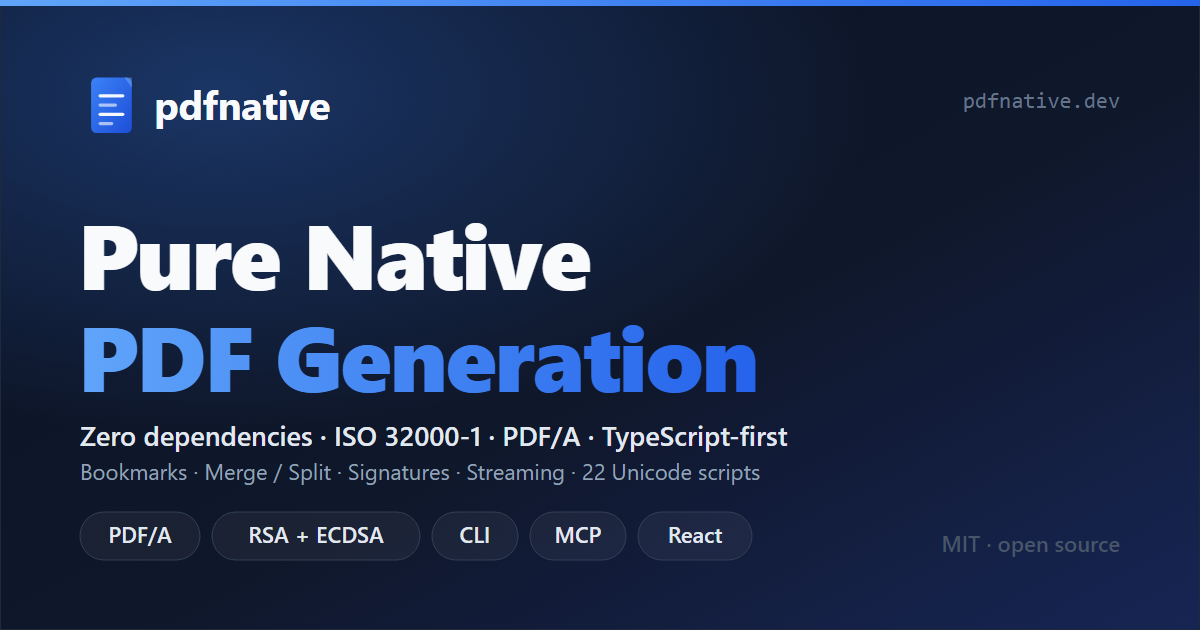
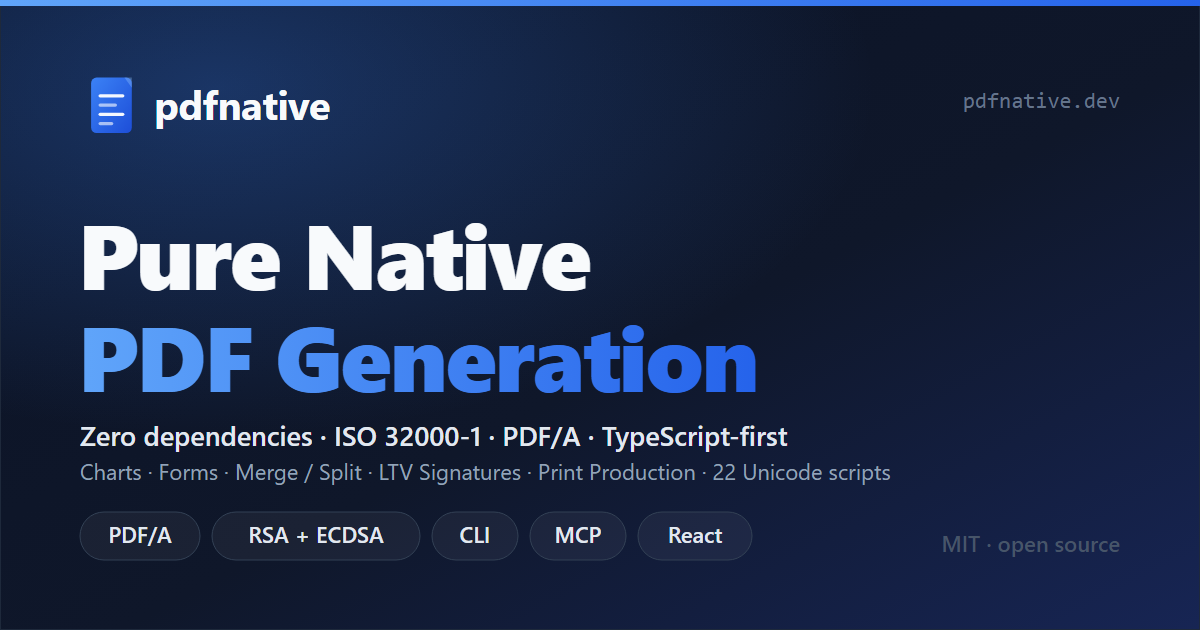
docs(site): regenerate the Open Graph card for 1.7.0 and fix the test-count canonical
The served og-image.png had never been re-rasterised since the v1.4.0 docs
audit: its git history stops at 52cbbdd while og-image.svg was edited later
in f88c3b0, so every social card still advertised the pre-1.6.0 feature
line. The SVG subtitle now names the 1.7.0 headliners (LTV Signatures,
Print Production) alongside the engine constants, and the PNG was
re-captured per the procedure in the SVG header comment:

  chrome --headless --disable-gpu --hide-scrollbars \
    --window-size=1200,630 --screenshot=og-image.png og-image.svg

Verified 1200x630 with the new line rendered. No conversion tooling is
committed - the SVG header comment remains the documented procedure.

charts.html was the only page referencing og-image without
og:image:width/height; the pair is added, and its og:description now
enumerates all nine chart kinds instead of seven labels.

ecosystem.json: the test-count-homepage canonical read "665+ tests across
122 files" - a dropped leading 2 that made the substring assertion unable
to catch the very drift it exists for. Corrected to "2665+"; verify:docs
stays green (docs/index.html carries the full string).

Changed region(s): [[0.0617, 0.7238, 0.74, 0.7841]]

diff --git a/docs/playgrounds/charts.html b/docs/playgrounds/charts.html
@@ -13,8 +13,10 @@
   <meta property="og:locale" content="en_US">
   <meta property="og:url" content="https://pdfnative.dev/playgrounds/charts.html">
   <meta property="og:title" content="Charts Playground — pdfnative">
-  <meta property="og:description" content="Nine chart types — bar, stacked, line, area, scatter, pie, donut — rendered as pure PDF path operators, zero install, right in your browser.">
+  <meta property="og:description" content="Nine chart types — bar, horizontal bar, stacked bar, stacked horizontal bar, line, area, scatter, pie, donut — rendered as pure PDF path operators, zero install, right in your browser.">
   <meta property="og:image" content="https://pdfnative.dev/assets/og-image.png">
+  <meta property="og:image:width" content="1200">
+  <meta property="og:image:height" content="630">
   <meta name="twitter:card" content="summary_large_image">
   <meta name="twitter:title" content="Charts Playground — pdfnative">
   <meta name="twitter:description" content="Native vector charts as pure PDF path operators. Zero install.">
